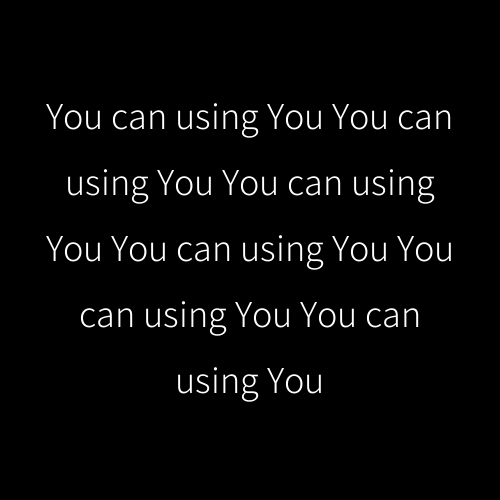
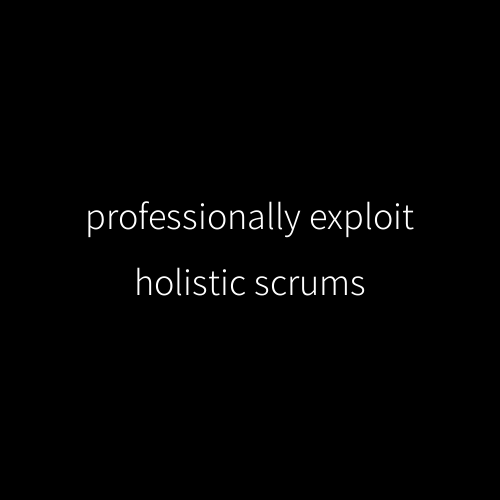
Cleaned

diff --git a/main.py b/main.py
@@ -1,14 +1,11 @@
 import random
-import pprint as pp
 from PIL import Image, ImageDraw, ImageFont
 import textwrap
-
 
 parts_dict = {}
 parts = ['adverbs', 'verbs', 'adjectives', 'nouns']
 font_path = '/Library/Fonts/Assistant-VariableFont_wght.ttf'
 weight = [b'ExtraLight', b'Light', b'Regular', b'SemiBold', b'Bold', b'ExtraBold']
-# font_path = '/Library/Fonts/Arial.ttf'
 
 def dict_generator(parts):
 
@@ -17,6 +14,8 @@ def dict_generator(parts):
             words = f.read().splitlines()
 
         parts_dict[part] = words
+
+    return parts_dict
 
 
 def pick_random_words(parts_dict, parts):
@@ -30,30 +29,33 @@ def pick_random_words(parts_dict, parts):
 
     return sentence_str
 
-dict_generator(parts)
+
+def generate_img(sentence_str: str):
+
+    para = textwrap.wrap(sentence_str, width=25)
+    base_height = base_heights[len(para)]
+    padding = 18
+
+    base_heights = {1 : 220,
+                    2 : 190,
+                    3 : 155,
+                    4 : 125,
+                    5 : 90}
+
+    width, height = 500, 500
+    img = Image.new('RGB', (width, height), (0, 0, 0, 0))
+    draw = ImageDraw.Draw(img)
+    font = ImageFont.truetype(font_path, 38)
+    font.set_variation_by_name('Regular')
+
+    for line in para:
+        w, h = draw.textsize(line, font=font)
+        draw.text(((width - w) / 2, base_height), line, font=font)
+        base_height += h + padding
+
+    img.save('test.png')
+
+
+parts_dict = dict_generator(parts)
 sentence_str = pick_random_words(parts_dict, parts)
-
-sentence_str = 'You can using You You can using You You can using You You can using You You can using You You can using You'
-para = textwrap.wrap(sentence_str, width=25)
-
-base_heights = {1 : 220,
-                2 : 190,
-                3 : 155,
-                4 : 125,
-                5 : 90}
-
-width, height = 500, 500
-img = Image.new('RGB', (width, height), (0, 0, 0, 0))
-draw = ImageDraw.Draw(img)
-font = ImageFont.truetype(font_path, 38)
-font.set_variation_by_name('Regular')
-
-base_height = base_heights[len(para)]
-padding = 18
-
-for line in para:
-    w, h = draw.textsize(line, font=font)
-    draw.text(((width - w) / 2, base_height), line, font=font)
-    base_height += h + padding
-
-img.save('test.png')
+generate_img(sentence_str)
